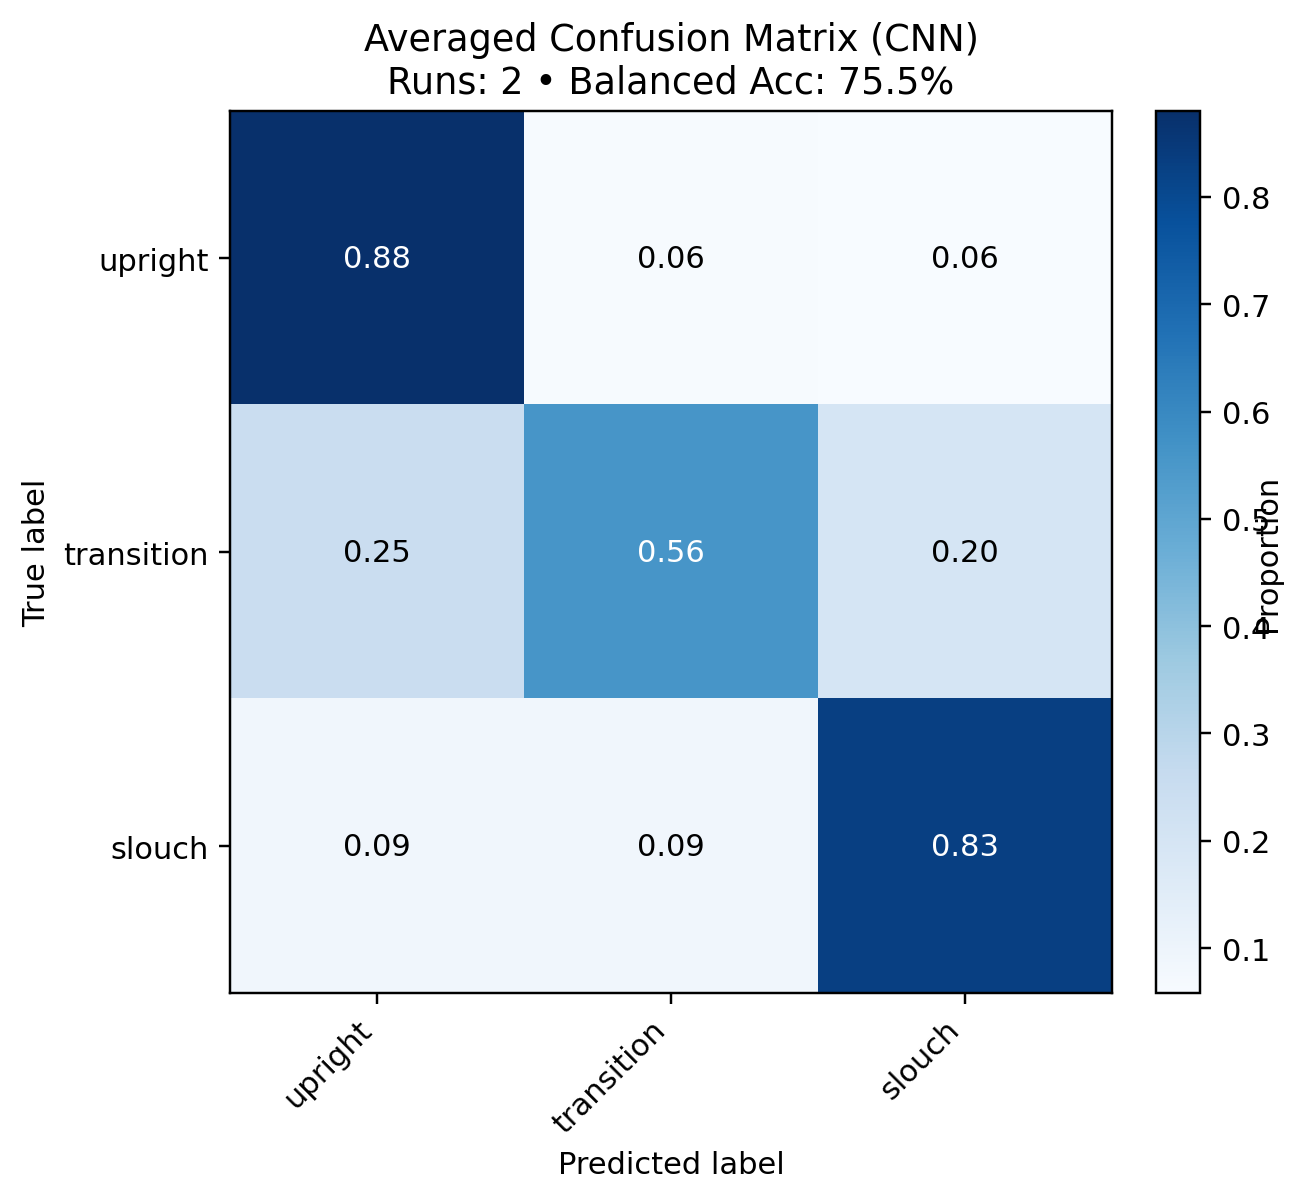
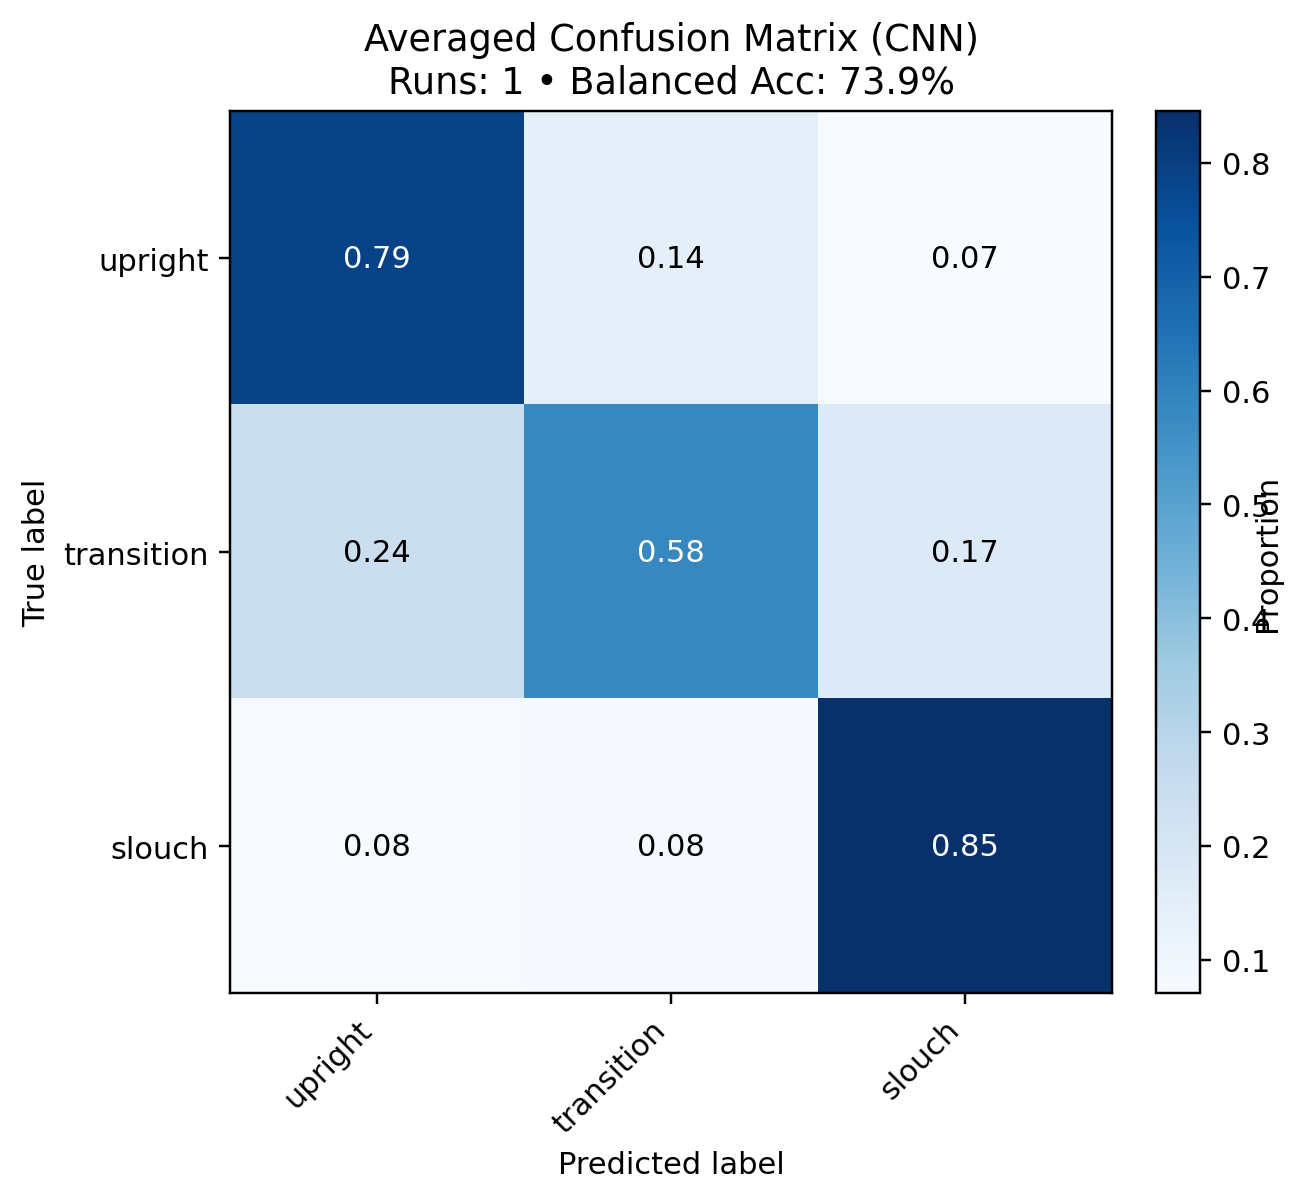
normalized Confusion Matrix

diff --git a/events_and_windowing.py b/events_and_windowing.py
@@ -10,6 +10,10 @@ from itertools import permutations, islice
 from math import factorial, floor
 from typing import List, Dict, Tuple
 import random
+from datetime import datetime
+from typing import Optional, Sequence
+import matplotlib.pyplot as plt
+from sklearn.metrics import confusion_matrix
 
 
 # count number of beep_schedules_folders:
@@ -654,51 +658,20 @@ def label_at_time(t, names, times, m):
     # default
     return 0
 
-def find_shapes():
-    # pick the first IMU file under data/*/
-    DATA_ROOT = os.path.join(os.getcwd(), "data")
-    imu_glob = os.path.join(DATA_ROOT, 'beep_schedules_*', 'airpods_motion_*.csv')
-    imu_list = glob.glob(imu_glob)
-    if not imu_list:
-        raise FileNotFoundError(f"No IMU CSVs found with pattern: {imu_glob}")
-
-    df_imu = pd.read_csv(imu_list[0])  # use first found file
-
-    t = df_imu.iloc[:, 0].astype(float).to_numpy()
-    dt = np.diff(t)
-    dt_med = float(np.median(dt)) if dt.size > 0 else (1.0/50.0)
-    fs = (1.0 / dt_med) if dt_med > 0 else 50.0
-    stride = 0.5
-    len_window_sec = 1.5
-
-    win_len_frames = int(round(len_window_sec * fs))      # samples per window
-    stride_frames = int(round(stride * fs))    # samples per stride
-
-    # Recompute windows_per_rec from sample counts (more robust than using seconds)
-    N = df_imu.shape[0]                           # 18'000
-    windows_per_rec = max(0, 1 + (N - win_len_frames) // stride_frames)
-
-    return t, dt_med, fs, win_len_frames, stride_frames, N, windows_per_rec, stride, len_window_sec
-
-# confusion_utils.py
-import os
-from datetime import datetime
-from typing import Optional, Sequence
-
-import numpy as np
-import matplotlib.pyplot as plt
-from sklearn.metrics import confusion_matrix
-
-
 class ConfusionMatrixAverager:
     """
     Accumulates raw confusion matrices over multiple runs and saves
     a single averaged confusion matrix as a PNG.
 
     - Uses raw counts per run (no normalization) and sums them.
-      The final figure is row-normalized so each row shows per-class recall.
-      This corresponds to pooling all test samples across runs, which is
-      robust when each split has different class supports.
+      The final figure can be normalized in different ways for display:
+        * normalize="true":  rows sum to 1 (per-true-class recall)
+        * normalize="pred":  columns sum to 1 (per-predicted-class precision)
+        * normalize="all":   entire matrix sums to 1
+        * normalize=None:    raw counts
+
+      Summing raw counts corresponds to pooling all test samples across runs,
+      which is robust when each split has different class supports.
 
     Parameters
     ----------
@@ -765,7 +738,7 @@ class ConfusionMatrixAverager:
 
     def save_figure(self,
                     model_tag: str = "tcn",
-                    normalize: str = "true",  # "true" -> row-normalized; "all" or None also supported
+                    normalize: str = "true",  # "true", "pred", "all", or None
                     dpi: int = 220) -> str:
         """
         Save the averaged confusion matrix as a PNG and return the path.
@@ -773,9 +746,10 @@ class ConfusionMatrixAverager:
         Parameters
         ----------
         model_tag : {"tcn","cnn",...}
-            Used in the filename, e.g. tcn_19-10-2025.png.
-        normalize : {"true","all",None}
-            - "true": rows sum to 1 (per-class recall) [recommended]
+            Used in the filename, e.g. tcn_19-10-2025_14-37.png.
+        normalize : {"true","pred","all",None}
+            - "true": rows sum to 1 (per-class recall)
+            - "pred": columns sum to 1 (per-class precision)
             - "all":  all entries sum to 1
             - None:   raw counts (summed across runs)
         dpi : int
@@ -796,7 +770,8 @@ class ConfusionMatrixAverager:
         fig, ax = plt.subplots(figsize=(6.4, 5.6))
         im = ax.imshow(cm_plot, interpolation="nearest", cmap="Blues")
         cbar = fig.colorbar(im, ax=ax, fraction=0.046, pad=0.04)
-        cbar.ax.set_ylabel("Proportion" if normalize else "Count", rotation=90, va="bottom")
+        cbar.ax.set_ylabel("Proportion" if normalize is not None else "Count",
+                           rotation=90, va="bottom")
 
         ax.set_xlabel("Predicted label")
         ax.set_ylabel("True label")
@@ -805,27 +780,33 @@ class ConfusionMatrixAverager:
         ax.set_xticklabels(self.class_names, rotation=45, ha="right")
         ax.set_yticklabels(self.class_names)
 
+        norm_label = { "true": "row-normalized",
+                       "pred": "col-normalized",
+                       "all":  "global-normalized",
+                       None:   "counts" }.get(normalize, "row-normalized")
         title_top = f"Averaged Confusion Matrix ({model_tag.upper()})"
-        subtitle = f"Runs: {self._runs} • Balanced Acc: {balanced_acc*100:.1f}%"
+        subtitle = f"Runs: {self._runs} • Balanced Acc: {balanced_acc*100:.1f}% • {norm_label}"
         ax.set_title(f"{title_top}\n{subtitle}")
 
         # Annotate each cell
-        fmt = ".2f" if normalize else "d"
-        thresh = np.nanmax(cm_plot) / 2.0 if np.size(cm_plot) else 0.5
+        fmt = ".2f" if normalize is not None else "d"
+        # Use nanmax to avoid warnings when matrix may contain NaNs (e.g., empty rows after normalization)
+        valid_max = np.nanmax(cm_plot) if np.any(np.isfinite(cm_plot)) else 0.0
+        thresh = valid_max / 2.0
         for i in range(self.n_classes):
             for j in range(self.n_classes):
                 val = cm_plot[i, j]
-                text = format(val, fmt)
+                text = format(val, fmt) if np.isfinite(val) else "nan"
                 ax.text(j, i, text,
                         ha="center", va="center",
                         color="white" if np.isfinite(val) and val > thresh else "black")
 
         fig.tight_layout()
 
-        # Safe date string for filenames: dd-mm-yyyy (hyphens instead of slashes)
-        date_str = datetime.now().strftime("%d-%m-%Y")
+        # Safe timestamp for filenames: dd-mm-yyyy_HH-MM (no seconds, filesystem-safe)
+        timestamp = datetime.now().strftime("%d-%m-%Y_%H-%M")
         os.makedirs(self.save_dir, exist_ok=True)
-        filename = f"{model_tag.lower()}_{date_str}.png"
+        filename = f"{model_tag.lower()}_{timestamp}.png"
         out_path = os.path.join(self.save_dir, filename)
 
         fig.savefig(out_path, dpi=dpi, bbox_inches="tight")
@@ -857,8 +838,18 @@ class ConfusionMatrixAverager:
                 cm = np.divide(cm_counts, row_sums, where=row_sums > 0)
                 cm[row_sums.squeeze() == 0] = 0.0
             return cm
+        elif normalize == "pred":
+            # Column-normalize (per-class precision across predictions)
+            col_sums = cm_counts.sum(axis=0, keepdims=True).astype(np.float64)
+            with np.errstate(divide="ignore", invalid="ignore"):
+                cm = np.divide(cm_counts, col_sums, where=col_sums > 0)
+                # For columns with zero predictions, keep zeros
+                zero_cols = (col_sums.squeeze() == 0)
+                if np.any(zero_cols):
+                    cm[:, zero_cols] = 0.0
+            return cm
         elif normalize == "all":
-            total = cm_counts.sum()
+            total = cm_counts.sum().astype(np.float64)
             return cm_counts / total if total > 0 else cm_counts.astype(np.float64)
         else:
             return cm_counts.astype(np.float64)
@@ -878,7 +869,8 @@ class ConfusionMatrixAverager:
 def save_confusion_matrix_for_run(history, X, y,
                                   model_tag: str = "tcn",
                                   save_dir: str = "confusion_matrix",
-                                  dpi: int = 220) -> str:
+                                  dpi: int = 220,
+                                  normalize: str = "true") -> str:
     """
     Convenience helper: compute & save a single-run confusion matrix.
     (Internally just uses ConfusionMatrixAverager once.)
@@ -887,7 +879,33 @@ def save_confusion_matrix_for_run(history, X, y,
     """
     cma = ConfusionMatrixAverager(save_dir=save_dir)
     cma.add(history, X, y)
-    return cma.save_figure(model_tag=model_tag, dpi=dpi)
+    return cma.save_figure(model_tag=model_tag, dpi=dpi, normalize=normalize)
+
+def find_shapes():
+    # pick the first IMU file under data/*/
+    DATA_ROOT = os.path.join(os.getcwd(), "data")
+    imu_glob = os.path.join(DATA_ROOT, 'beep_schedules_*', 'airpods_motion_*.csv')
+    imu_list = glob.glob(imu_glob)
+    if not imu_list:
+        raise FileNotFoundError(f"No IMU CSVs found with pattern: {imu_glob}")
+
+    df_imu = pd.read_csv(imu_list[0])  # use first found file
+
+    t = df_imu.iloc[:, 0].astype(float).to_numpy()
+    dt = np.diff(t)
+    dt_med = float(np.median(dt)) if dt.size > 0 else (1.0/50.0)
+    fs = (1.0 / dt_med) if dt_med > 0 else 50.0
+    stride = 0.5
+    len_window_sec = 1.5
+
+    win_len_frames = int(round(len_window_sec * fs))      # samples per window
+    stride_frames = int(round(stride * fs))    # samples per stride
+
+    # Recompute windows_per_rec from sample counts (more robust than using seconds)
+    N = df_imu.shape[0]                           # 18'000
+    windows_per_rec = max(0, 1 + (N - win_len_frames) // stride_frames)
+
+    return t, dt_med, fs, win_len_frames, stride_frames, N, windows_per_rec, stride, len_window_sec
 
 
 def X_and_y(type, list_comb):

diff --git a/main.py b/main.py
@@ -18,7 +18,7 @@ warnings.filterwarnings("ignore", category=NotOpenSSLWarning)
 def main():
 
     participants = ['Ivan', 'Dario', 'David', 'Claire', 'Mohid', 'Svetlana']         # 'Ivaan', 'Claire'
-    combinations, mean, std = find_combinations(participants, fraction = 0.067)  # fraction 0.1 means cut off  
+    combinations, mean, std = find_combinations(participants, fraction = 0.1)  # fraction 0.1 means cut off  
     n = len(combinations)
     print(combinations)
 
@@ -57,10 +57,8 @@ def main():
     # calculate std only now, after mean has already been calculated
     std_mean(mean, std)
 
-    # print accuracy on individual classes (0 = upright, 1 = transition, 2 = slouch)
-    individual_accuracy(model, X_test, y_test)
-
-    png_path = cm_avg.save_figure(model_tag="cnn", normalize="true")  # or "cnn"
+    # print Confusion matrix (0 = upright, 1 = transition, 2 = slouch)
+    png_path = cm_avg.save_figure(model_tag="cnn", normalize="pred")
     print(f"✅ Saved averaged confusion matrix to: {png_path}")
     
 

diff --git a/CNN.py b/CNN.py
@@ -58,8 +58,6 @@ class BalancedAccuracy(tf.keras.metrics.Metric):
 def CNN_model(X_train, y_train, X_val, y_val, verbose, n_classes=3):
     T = X_train.shape[1]
     n_ch = X_train.shape[2]
-    assert X_train.ndim == 3 and X_train.shape[1:] == (75, n_ch)
-    assert X_val.shape[1:]   == (75, n_ch)
 
     # labels should be integer class IDs: 0,1,2
     y_train = y_train.squeeze().astype("int32")
